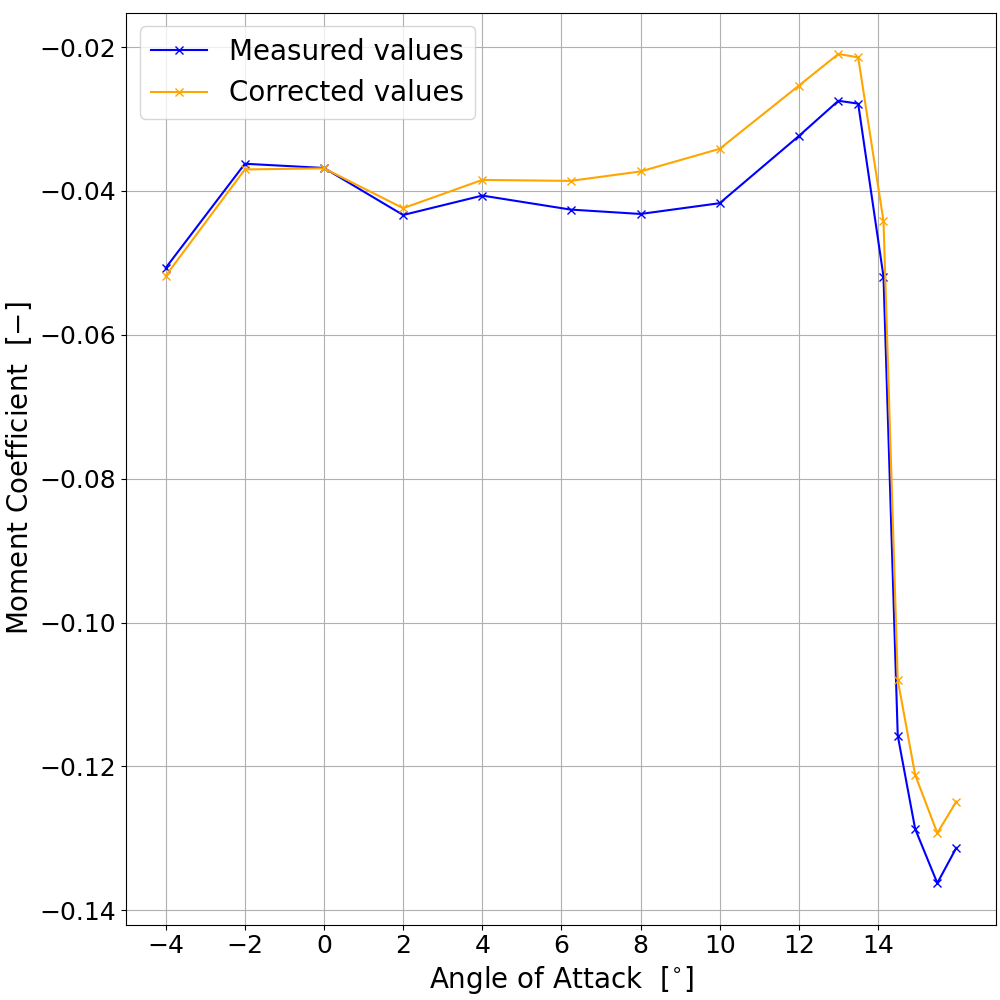
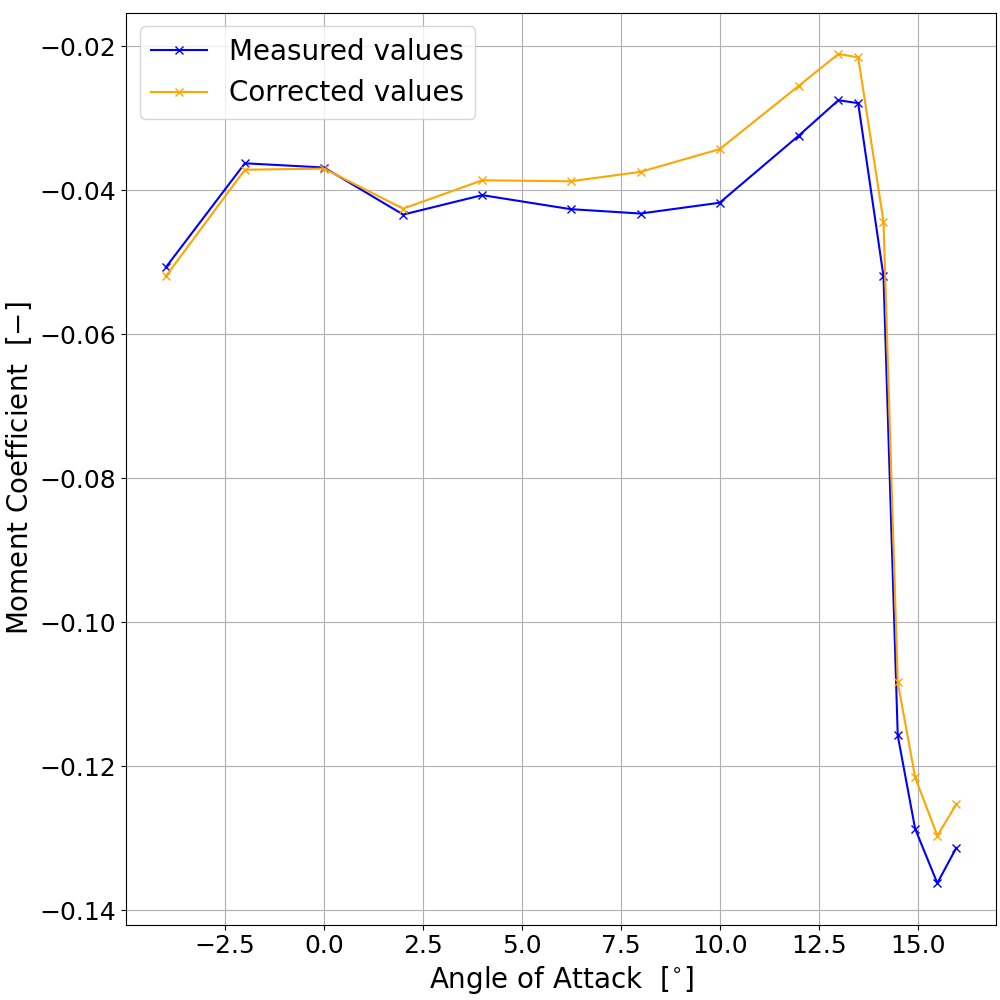
lil updates

diff --git a/3_2/main.py b/3_2/main.py
@@ -63,24 +63,6 @@ if __name__ == '__main__':
 
     
 
-    alpha = [-4.5, -4.0, -3.5, -3.0, -2.5, -1.5, -1.0, -0.5, 0.5,  1.0,  1.5,  2.0,  2.5,  3.0,  3.5,  4.0, 4.5,  5.0,  5.5,  6.0,  6.5,  7.0,  7.5,  8.0, 9.0,  9.5, 10.0, 10.5, 11.0, 11.5, 12.0, 12.5, 13.0, 13.5, 14.0, 14.5, 15.0]
-    CL = [-0.2891, -0.2179, -0.1596, -0.1059, -0.0638,  0.0112,  0.0850,  0.1824, 0.3552,  0.3989,  0.4421,  0.4851,  0.5285,  0.5725,  0.6163,  0.6615, 0.7062,  0.7510,  0.7944,  0.8366,  0.8746,  0.9068,  0.9351,  0.9612, 1.0055,  1.0265,  1.0435,  1.0528,  1.0524,  1.0383,  1.0163,  0.9899, 0.9628,  0.9358,  0.9083,  0.8786,  0.8210]
-    CD = [0.02015, 0.01698, 0.01503, 0.01410, 0.01180, 0.01114, 0.01140, 0.01131, 0.01076, 0.01067, 0.01064, 0.01058, 0.01065, 0.01068, 0.01076, 0.01093, 0.01101, 0.01122, 0.01161, 0.01227, 0.01340, 0.01508, 0.01731, 0.02000, 0.02561, 0.02828, 0.03141, 0.03644, 0.04304, 0.05015, 0.05816, 0.06716, 0.07755, 0.08986, 0.10461, 0.12265, 0.15388]
-    CDp = [0.01262, 0.00906, 0.00683, 0.00565, 0.00493, 0.00607, 0.00614, 0.00586, 0.00505, 0.00481, 0.00479, 0.00461, 0.00470, 0.00461, 0.00476, 0.00482, 0.00494, 0.00515, 0.00583, 0.00635, 0.00715, 0.00822, 0.00960, 0.01178, 0.01803, 0.02093, 0.02427, 0.02968, 0.03683, 0.04449, 0.05299, 0.06240, 0.07316, 0.08578, 0.10081, 0.11909, 0.15034]
-    CM = [-0.0462, -0.0482, -0.0482, -0.0472, -0.0453, -0.0319, -0.0344, -0.0421, -0.0552, -0.0533, -0.0517, -0.0493, -0.0473, -0.0448, -0.0427, -0.0404, -0.0382, -0.0359, -0.0333, -0.0309, -0.0281, -0.0251, -0.0222, -0.0187, -0.0100, -0.0060, -0.0023,  0.0015,  0.0051,  0.0075,  0.0078,  0.0055, 0.0007, -0.0067, -0.0166, -0.0284, -0.0436]
-    Top_Xtr = [0.9548, 0.9445, 0.9271, 0.9097, 0.8928, 0.8585, 0.8452, 0.8295, 0.7943, 0.7738, 0.7531, 0.7313, 0.7086, 0.6836, 0.6575, 0.6277, 0.5940, 0.5519, 0.4911, 0.4188, 0.3301, 0.2189, 0.1032, 0.0277, 0.0158, 0.0132, 0.0106, 0.0091, 0.0085, 0.0083, 0.0083, 0.0083, 0.0084, 0.0085, 0.0087, 0.0092, 0.0119]
-    Bot_Xtr = [0.0198, 0.0173, 0.0181, 0.0244, 0.3718, 0.9108, 0.9432, 0.9652, 0.9992, 1.0000, 1.0000, 1.0000, 1.0000, 1.0000, 1.0000, 1.0000, 1.0000, 1.0000, 1.0000, 1.0000, 1.0000, 1.0000, 1.0000, 1.0000, 1.0000, 1.0000, 1.0000, 1.0000, 1.0000, 1.0000, 1.0000, 1.0000, 1.0000, 1.0000, 1.0000, 1.0000, 1.0000]
-
-    alphaVals = alpha
-    clVals = CL
-
-    alpha_array = np.array(alpha)
-    Cl_array = np.array(CL)
-    CD_array = np.array([CD])
-    CM_array = np.array([CM])
-    n = np.size(alpha_array)
-    
-
     # #cl-a plot   
     # plotXVals = np.array([alphaVals, cdPressVals])
     # plotYVals = np.array([clVals, clVals])  
@@ -215,31 +197,19 @@ if __name__ == '__main__':
     #           (r'Lift Coefficient  $[-]$',),
     #           ('blue', 'orange'))
     
-    # # CORRECTIED CM VS CM 
-    # plotXVals = np.array([alphaVals, alphaVals])
-    # plotYVals = np.array([cmc4Vals, cm_cVals])
-    
-    # plotPaula(plotXVals, 
-    #           plotYVals,
-    #           (1,1),
-    #           '',
-    #           ('Measured values', 'Corrected values'),
-    #           (r'Angle of Attack  $[^{\circ{}}]$',),
-    #           (r'Moment Coefficient  $[-]$',),
-    #           ('blue', 'orange'))
-
-    # EXPERIMENTAL VS NUMERICAL DATA
-    plotXVals = np.array([alphaVals, alpha_array])
-    plotYVals = np.array([clVals, Cl_array])
+    # CORRECTIED CM VS CM 
+    plotXVals = np.array([alphaVals, alphaVals])
+    plotYVals = np.array([cmc4Vals, cm_cVals])
     
     plotPaula(plotXVals, 
               plotYVals,
               (1,1),
-              'Experimental vs Numerical',
-              ('Experimental data', 'Numerical Data'),
+              '',
+              ('Measured values', 'Corrected values'),
               (r'Angle of Attack  $[^{\circ{}}]$',),
-              (r'Lift Coefficient  $[-]$',),
+              (r'Moment Coefficient  $[-]$',),
               ('blue', 'orange'))
+
             
     
     

diff --git a/plotPaula.py b/plotPaula.py
@@ -90,8 +90,8 @@ def plotPaula(xVals: NDArray, yVals: NDArray, dimSubplots: tuple, figTitle: str=
             fig.delaxes(ax)
             continue
         
-        if i == 0:        
-            ax.set_xticks(np.arange(np.floor(np.min(xArrays[i])), np.ceil(np.max(xArrays[i])), 2))
+        # if i == 0:        
+        #     ax.set_xticks(np.arange(np.floor(np.min(xArrays[i])), np.ceil(np.max(xArrays[i])), 2))
         
         ax.set_xlabel(xLabels[i])    
         ax.set_ylabel(yLabels[i])    

diff --git a/XFOIL analyis.py b/XFOIL analyis.py
@@ -3,6 +3,7 @@ import numpy as np
 import matplotlib.pyplot as plt
 import matplotlib as mpl
 from numpy.typing import NDArray
+from plotPaula import *
 
 mpl.rcParams.update({
     'axes.labelsize': 20,   # x/y label size
